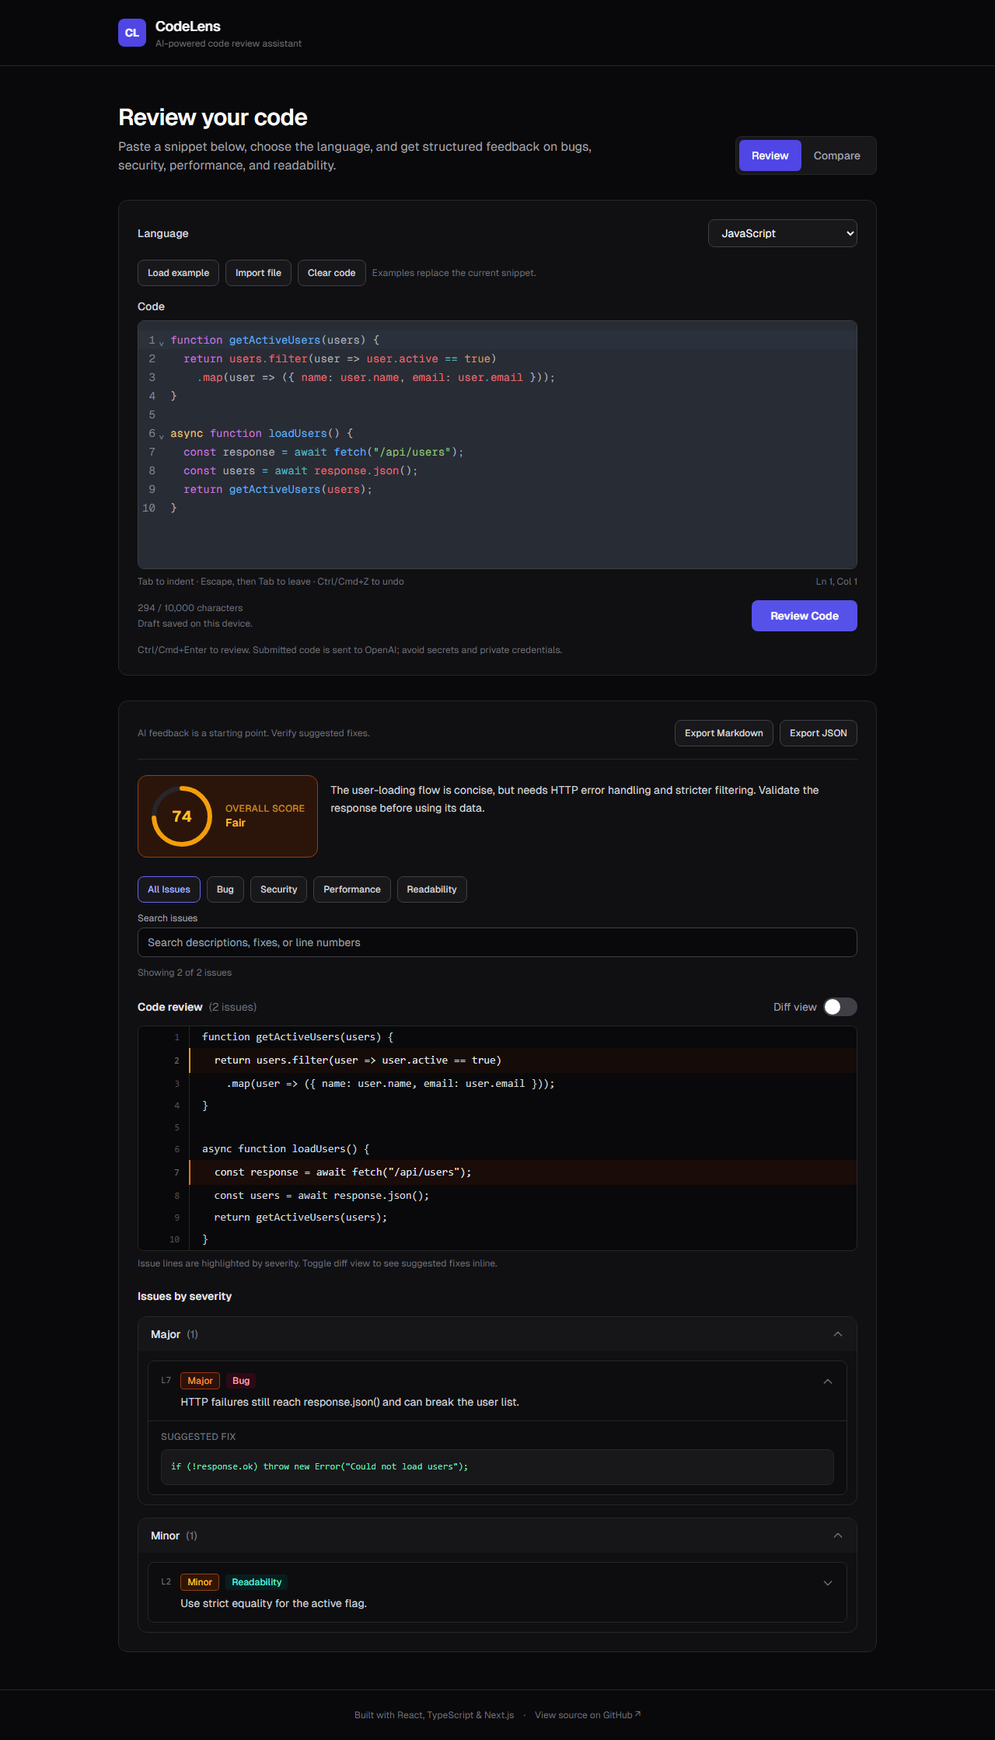
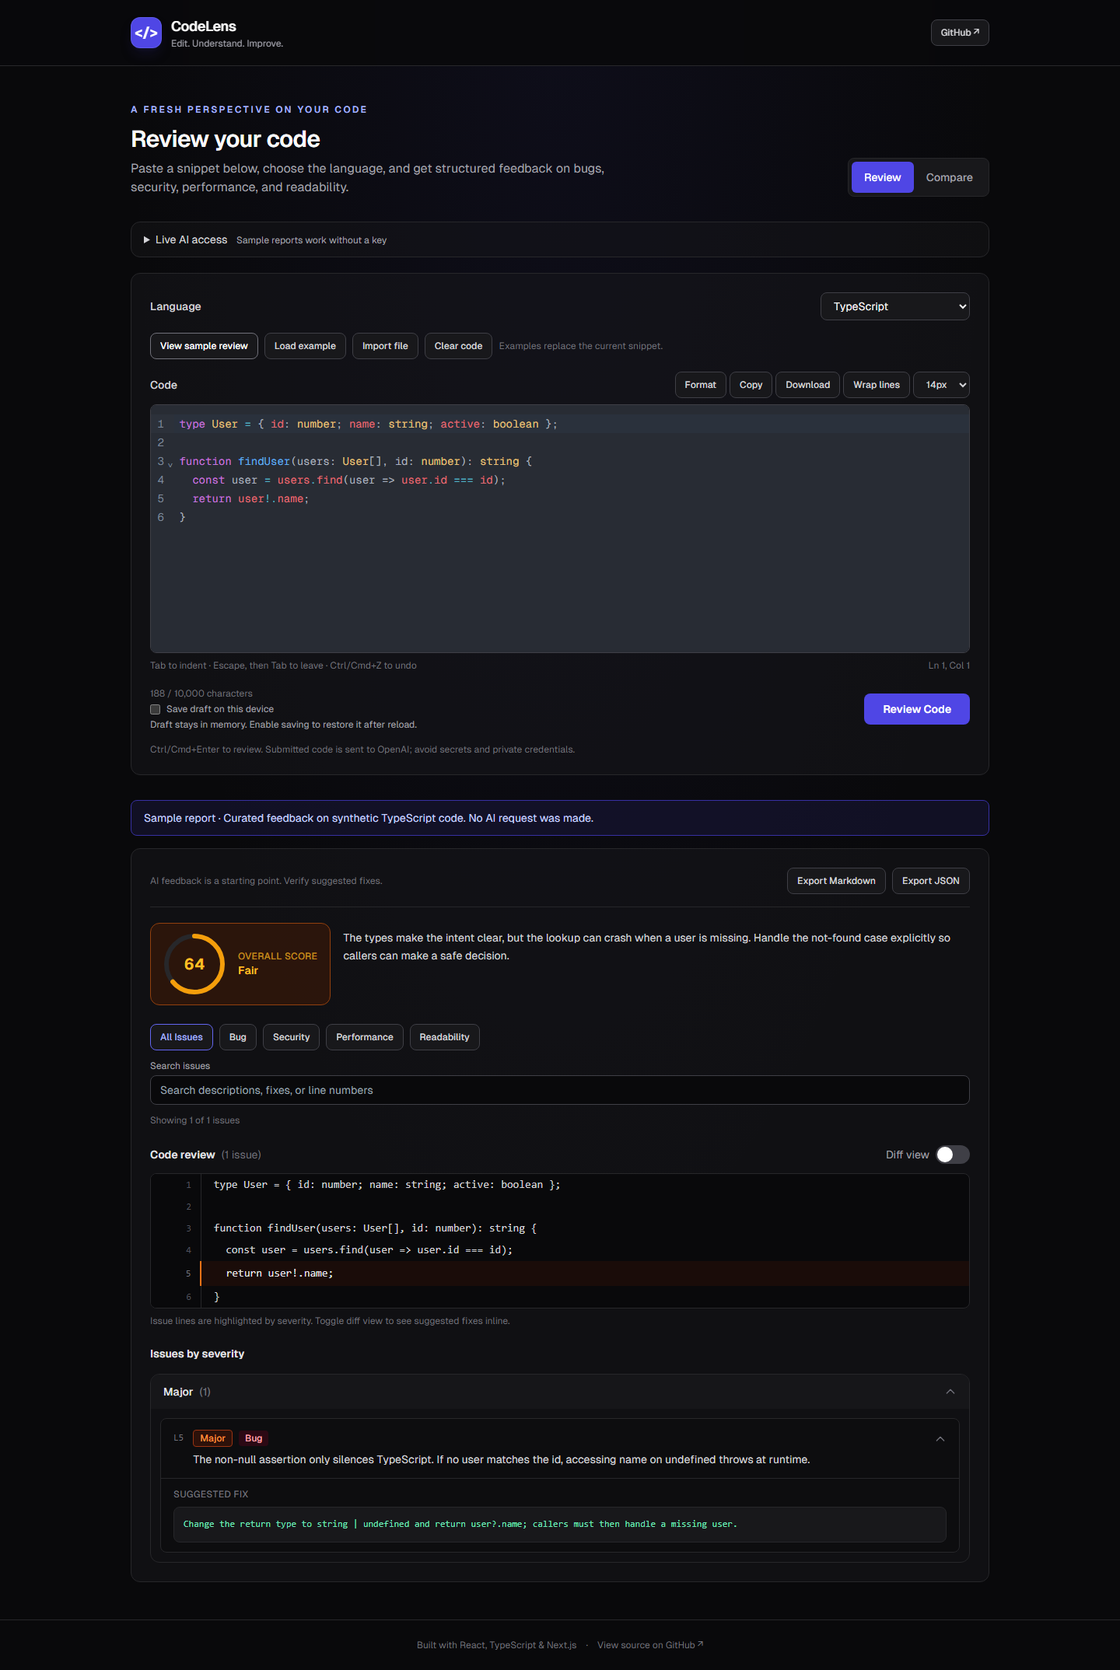
docs: describe CodeLens features setup and improvement roadmap

diff --git a/README.md b/README.md
@@ -1,43 +1,85 @@
 # CodeLens
 
 [![CI](https://github.com/pritishhhh/codelens/actions/workflows/ci.yml/badge.svg)](https://github.com/pritishhhh/codelens/actions/workflows/ci.yml)
+[![Deploy to Vercel](https://vercel.com/button)](https://vercel.com/new/clone?repository-url=https%3A%2F%2Fgithub.com%2Fpritishhhh%2Fcodelens)
 
-A React and TypeScript workspace for AI-assisted code review and solution comparison. Paste or import a snippet, inspect actionable feedback, and export the analysis with its original source.
+**A browser workspace for editing code, understanding tradeoffs, and getting structured review feedback.**
 
-![CodeLens editor and review results](docs/preview.png)
+CodeLens brings a real code editor, local source comparison, and AI-assisted review into one interface. It supports JavaScript, TypeScript, Python, Java, C++, and Go. Curated sample reports make the complete review and comparison experience available without an API key.
 
-*Interface preview with illustrative review feedback.*
+![CodeLens workspace](docs/preview.png)
 
-## Features
+[View the comparison workspace](docs/comparison.png)
 
-- **Code editor:** CodeMirror 6 with syntax highlighting, line numbers, bracket matching, folding, search, indentation, and undo/redo.
-- **Six languages:** JavaScript/JSX, TypeScript/TSX, Python, Java, C++, and Go.
-- **Structured reviews:** Quality score, severity groups, category filters, issue search, and suggested fixes alongside annotated source.
-- **Solution comparison:** Side-by-side editors, scores, strengths, weaknesses, a winner, and an explanation.
-- **Persistent drafts:** Separate review and comparison drafts survive reloads and mode changes in this browser.
-- **File import:** Read source files locally, infer the language, normalize line endings, and validate size before replacing code.
-- **Examples:** Review snippets and comparison pairs for every supported language, plus a swap action.
-- **Exports:** Download complete Markdown or JSON reports, including submitted source and unfiltered feedback.
-- **Request controls:** Cancel analysis, retry failures, and ignore stale responses after switching modes.
-- **Accessible navigation:** Named editors, keyboard mode tabs, visible focus states, responsive layouts, and reduced-motion support.
+## What it does
+
+- **Edit comfortably:** CodeMirror 6 provides syntax highlighting, line numbers, bracket matching, completion, folding, search and replace, indentation, and undo/redo. Line wrapping and adjustable font sizes accommodate different screens.
+- **Format locally:** JavaScript/JSX and TypeScript/TSX formatting uses lazily loaded Prettier parsers. Formatting is undoable; invalid syntax leaves the original source intact.
+- **Work with files:** Import source files with language detection and normalized line endings, copy code, or download the current source in its selected language.
+- **Review code:** Get a quality score, line-specific issues grouped by severity, category filters, search, and suggested fixes beside the submitted source.
+- **Compare solutions:** Edit two snippets, swap them, inspect a local line diff, and request an analysis of correctness, performance, readability, and maintainability.
+- **Try sample reports:** Explore curated TypeScript reviews and comparisons without contacting an AI provider. Samples are clearly identified in the interface and exported reports.
+- **Keep control of drafts:** Documents stay in memory by default. Optional local saving restores drafts after reload; switching it off removes the stored source for that draft.
+- **Export findings:** Download Markdown or JSON containing the original submitted source and complete feedback, independent of active filters.
+- **Manage requests:** Cancel work, retry a failed submission, and switch modes without stale responses changing the current view.
+- **Navigate accessibly:** Named editors, keyboard-operated mode tabs, focus indicators, a skip link, responsive layouts, and reduced-motion support.
+
+CodeLens reviews snippets; it does not compile or execute them. The annotated review displays suggestions, which may be explanations rather than directly applicable patches. The comparison source diff shows actual text changes between the two documents.
+
+## Technology
+
+Next.js 15 App Router · React · TypeScript · Tailwind CSS · CodeMirror 6 · Prettier · jsdiff · OpenAI Node SDK · Playwright · Node test runner
+
+The API key remains on the server. Formatting, text comparison, imports, downloads, draft storage, and sample reports run locally in the browser.
 
 ## Run locally
 
-Use **Node.js 22.13 or newer** and npm.
+Requirements: **Node.js 22.13+ (22.x LTS) or 24+**, and npm. The repository includes an `.nvmrc` for Node 22.
 
 ```bash
 git clone https://github.com/pritishhhh/codelens.git
 cd codelens
 npm ci
-cp .env.example .env.local
 npm run dev
 ```
 
-On Windows, use `Copy-Item .env.example .env.local` instead of `cp`.
+Open [localhost:3000](http://localhost:3000). The editor and sample reports work immediately without environment variables.
 
-Set `OPENAI_API_KEY` in `.env.local`. The key stays on the server; never prefix it with `NEXT_PUBLIC_` or commit it. `OPENAI_MODEL` optionally overrides the default `gpt-4o`; choose a model compatible with Chat Completions and JSON object output.
+Live AI analysis requires a server-side API key:
 
-Open [localhost:3000](http://localhost:3000). Editing, examples, draft saving, and file import work without an API key; real analysis requires a configured key and provider quota.
+```bash
+cp .env.example .env.local
+```
+
+On PowerShell, the equivalent is `Copy-Item .env.example .env.local`.
+
+| Variable | Purpose |
+| --- | --- |
+| `OPENAI_API_KEY` | Server-only provider key for live analysis. Never use a `NEXT_PUBLIC_` prefix. |
+| `OPENAI_MODEL` | Optional model override; defaults to `gpt-4o`. Must support Chat Completions and JSON object output. |
+| `CODELENS_ACCESS_TOKEN` | Private deployment access code. Required for live AI in production; optional during local development. |
+
+Restart the development server after changing environment variables. When an access token is configured, enter it in **Live AI access** in the workspace. The code is held in memory for the current visit and sent only with analysis requests.
+
+## Deploy on Vercel
+
+The repository includes `vercel.json`, uses the Next.js framework preset, and builds without an API key or external database.
+
+1. Import this GitHub repository into Vercel, or use the deploy button above.
+2. Select **Node.js 22.x** and keep the repository root as the project directory.
+3. For live analysis, configure `OPENAI_API_KEY` and a long, random `CODELENS_ACCESS_TOKEN` as server environment variables. `OPENAI_MODEL` is optional.
+4. Deploy. Subsequent pushes to the connected branch trigger Vercel builds.
+
+Without a production access token, live analysis returns 503 and the editor and sample reports remain usable. This prevents an accidental public deployment from exposing an unrestricted paid AI endpoint. The access code can be shared privately with intended reviewers; it is separate from the provider API key.
+
+Both API routes use the Node.js runtime with a 60-second maximum duration. Provider requests have a 45-second timeout with automatic retries disabled. Responses containing analysis are marked `no-store`. A static-only export cannot run the API routes.
+
+For another Node-compatible host:
+
+```bash
+npm run build
+npm start
+```
 
 ## Keyboard shortcuts
 
@@ -45,35 +87,31 @@ Open [localhost:3000](http://localhost:3000). Editing, examples, draft saving, a
 | --- | --- |
 | Review or compare | Ctrl/Cmd + Enter |
 | Undo / redo | Ctrl/Cmd + Z / Shift + Ctrl/Cmd + Z |
-| Find in editor | Ctrl/Cmd + F |
+| Find / replace | Ctrl/Cmd + F, then expand the replace controls |
 | Indent / outdent | Tab / Shift + Tab |
-| Leave editor | Escape, then Tab |
-| Change mode while a tab is focused | Left / Right arrow, Home / End |
+| Leave the editor | Escape, then Tab |
+| Change mode with a tab focused | Left / Right arrow, Home / End |
 
-Snippets are limited to **10,000 characters each**. Imported files are read in the browser and are sent to the server only when submitted. Examples replace the current snippet or pair.
+Snippets are limited to **10,000 characters each**. Example and sample buttons replace the current snippet or comparison pair.
 
-## Architecture
+## Architecture and engineering choices
 
 ```text
-src/app/page.tsx          Mode selection, request lifecycle, and submitted-result snapshots
-src/app/api/             Server-only review and comparison routes
-src/components/          Editors, forms, feedback, annotations, and report downloads
-src/hooks/               SSR-safe persistent draft hook
-src/lib/                 Prompts, runtime validation, examples, drafts, and report formatting
-src/types/               Shared TypeScript request and result contracts
-tests/unit/              Validators, reports, and API behavior with a mocked provider
+src/app/                 Workspace, layout, and server-only API routes
+src/components/          Editors, source diff, forms, feedback, and exports
+src/hooks/               Validated, opt-in draft persistence
+src/lib/                 Prompts, request guards, validators, formatting, diffing, and samples
+src/types/               Shared TypeScript request/result contracts
+tests/unit/              API boundaries, runtime contracts, reports, diffing, and formatting
 tests/e2e/               Desktop and mobile browser workflows
 ```
 
-**React state management:** Controlled editor documents and a reusable persistence hook keep each draft independent. Storage hydrates after mount to avoid server/client markup mismatches and never overwrites a saved draft with initial empty state.
-
-**Async correctness:** An `AbortController` and request identity guard prevent cancelled or superseded requests from changing the active view. Retry uses the last submitted snapshot. The provider has a 60-second timeout; the browser has a 120-second fallback.
-
-**Runtime contracts:** TypeScript describes the data, while runtime validators check actual AI responses. Invalid input returns 400; malformed AI output returns 502. Review issues must reference a line that exists in the unchanged source.
-
-**Editor correctness:** CodeMirror owns text, highlighting, selection, and cursor measurement in one document. The former transparent textarea overlay used inconsistent padding and font metrics. Font loading now triggers remeasurement instead of relying on a cursor offset.
-
-**Exports:** Markdown and JSON are generated locally. Code fences grow when the source contains backticks, preserving the snippet inside the exported report.
+- **Request lifecycle:** Abort controllers and request identity checks prevent cancelled or superseded work from updating the screen. Retry uses the submitted snapshot, preserving its source and line numbers.
+- **Runtime validation:** Request and model output are validated separately. Invalid input returns 400, oversized request bodies return 413, and malformed provider output returns 502. Review issues must reference a line in the submitted source.
+- **Deployment protection:** Production live analysis requires a shared access token. Comparisons use constant-time digest checks. Cross-origin browser analysis requests are rejected, actual body streams are bounded to 128 KiB, and provider error details are never returned.
+- **Editor integrity:** CodeMirror owns document text, highlighting, selection, and cursor measurement. Formatting is a history transaction and skips results if the document changed while parsers were loading.
+- **Local persistence:** Saved drafts are validated after hydration and writes are debounced. Existing saved drafts are migrated; new visitors explicitly opt in. Storage restrictions leave the editor usable.
+- **Honest samples:** Curated sample data never impersonates a live response. Sample provenance appears in Markdown and JSON exports.
 
 ## Quality checks
 
@@ -86,23 +124,23 @@ npx playwright install chromium
 npm run test:e2e
 ```
 
-GitHub Actions runs these checks on pushes and pull requests to `main`, including browser tests against the production build. Tests use mocked responses and do not require an API key or spend provider credits. Browser projects cover desktop Chromium and a mobile viewport.
+GitHub Actions runs lint, type checking, unit tests, a production build, and browser tests on pushes and pull requests to `main`. Browser coverage includes desktop Chromium and a mobile viewport. Tests use synthetic data and mocked AI responses; they do not require a provider key or spend credits.
 
-## Deployment
+## Privacy and limitations
 
-Use a Node-compatible Next.js host. Set `OPENAI_API_KEY` and optionally `OPENAI_MODEL` in its server environment, then run `npm run build` and `npm start`. These API routes cannot run in a static-only export.
+Source is sent to OpenAI only when live analysis is submitted. Imports, formatting, samples, and local diffs do not transmit source. Optional saved drafts are plaintext in this browser's storage. Turning saving off removes that draft's stored source, while preserving the current editor contents until the page is closed or reloaded.
 
-## Limitations and tradeoffs
+AI feedback may be incorrect or incomplete; it needs human review. Cancelling a request cannot guarantee cancellation of provider work or charges already incurred. Both comparison snippets use one selected language. Mobile tests use a Chromium viewport rather than a physical device or Safari.
 
-- AI reviews can miss problems or suggest incorrect fixes. CodeLens does not compile or execute submitted snippets.
-- Drafts are plaintext in this browser's local storage; there is no account, cloud synchronization, or saved report history. Clear a draft before leaving a shared device.
-- Both comparison solutions use the selected language.
-- The API currently has no application authentication or distributed rate limiter. Add access controls and provider spending limits before exposing a paid key through an unrestricted public deployment.
-- Cancelling a request stops local waiting and attempts to abort the provider request. It cannot guarantee cancellation of provider work or charges already incurred.
-- Next.js and its PostCSS dependency were patched. Development tooling still has upstream audit findings; see [review notes](docs/REVIEW_NOTES.md).
+A shared access code is suitable for a restricted portfolio demo, not a substitute for individual accounts, distributed rate limits, or per-user quotas. Provider spending controls and deployment access policies remain relevant for a public service.
 
-## Engineering walkthrough
+## Further improvements
 
-This project demonstrates component composition, custom hooks, controlled state, TypeScript unions and type guards, API integration, request cancellation, local persistence, responsive styling, runtime validation, browser testing, and continuous integration.
-
-For an interview demo: load the JavaScript example, review it, filter the issues, export a report, compare the paired examples, then reload to demonstrate saved drafts.
+- **Multi-file workspaces:** A file tree, tabs, cross-file search, and project imports with explicit size and privacy limits.
+- **Language intelligence:** Language Server Protocol integration for diagnostics, completion, symbol navigation, and refactoring; formatters for Python, Java, C++, and Go.
+- **Review context:** Structured problem descriptions, selected review rules, and schema-constrained model responses with evidence linked to source.
+- **Accounts and quotas:** Individual authentication, distributed rate limiting, per-user usage budgets, and an audit trail that avoids storing source by default.
+- **Review history:** Opt-in encrypted cloud storage, saved comparisons, and report history with deletion controls.
+- **Testing depth:** Firefox and WebKit coverage, automated accessibility audits, larger-diff performance checks, and a small provider evaluation set.
+- **Collaboration:** GitHub pull-request imports, anchored discussion threads, and explicit approval before writing comments.
+- **Execution sandbox:** Isolated, resource-limited runners with no host or network access, if code execution becomes part of the product.

diff --git a/docs/REVIEW_NOTES.md b/docs/REVIEW_NOTES.md
@@ -1,36 +1,41 @@
-# Project review and improvements
+# Engineering notes
 
-The review covered the application page and layout, both API routes, all input and result components, error and loading states, prompts, JSON parsing, runtime validators, shared types, styles, dependencies, and setup documentation.
+## Editor and review integrity
 
-## Fixed
+CodeMirror owns text, highlighting, selection, and cursor measurement in a single document. Font loading triggers remeasurement. Formatting uses a history transaction, preserves source on parse failure, and discards stale formatting results if the document changes while parsers load.
 
-| Finding | Change |
-| --- | --- |
-| Caret and highlighted text used separate layers with inconsistent padding and font metrics | Replaced the overlay with CodeMirror; remeasure after local fonts load |
-| Changing modes unmounted forms and discarded drafts | Keep forms mounted and persist independently validated drafts locally |
-| A late response could update the screen after a mode change | Abort requests and guard every update by active request identity |
-| No cancellation or timeout controls | Add a cancel action, bounded provider/browser timeouts, and real retry |
-| Trimming source shifted review line numbers | Preserve source whitespace end to end; use trimming only to check emptiness |
-| Invalid model output was classified as invalid user input | Return 502 for malformed provider results and 400 for invalid requests |
-| Review issues could reference nonexistent source lines | Validate line references against submitted source |
-| Fractional scores outside 0–100 could pass after rounding | Check the range before rounding |
-| Provider error details were returned directly | Use actionable messages without raw provider details |
-| Outdated Next.js and nested PostCSS dependencies | Upgrade Next.js and override its PostCSS with the patched direct dependency |
-| Shared severity and score classes were outside Tailwind's scanned folders | Scan all source files so severity highlights and score colors are generated |
-| No automated regression checks or project-specific README | Add unit/browser tests, GitHub Actions, setup instructions, and architecture notes |
+Submitted source is preserved, including leading whitespace. The review API validates issue line numbers against that exact source. Results and exports use the submitted snapshot, while category filters affect presentation only. Review suggestions may contain explanations; they are not automatically applied as patches.
 
-## Added
+The local comparison diff shows actual changes between Solution A and Solution B. Its computation has a short time budget and falls back to showing complete removal/addition for pathological input.
 
-Code editor navigation and shortcuts; language-specific examples; source-file import; comparison swapping; category filters and issue search; complete Markdown/JSON exports; local draft persistence; keyboard-accessible mode tabs; a source link.
+## Request and deployment boundaries
 
-## Validation boundaries
+Both API routes share access checks, bounded JSON reading, provider configuration, and error translation:
 
-Unit tests mock the provider's transport and verify server behavior without making paid requests. Browser tests use mocked API responses to verify the interface and downloads. Desktop and mobile viewport tests check cursor geometry against actual rendered character bounds, typing, indentation, undo, horizontal scrolling, draft restore, imports, filtering, retries, and cancellation.
+- Production analysis is disabled unless a private deployment access token is configured.
+- Tokens are compared using constant-time SHA-256 digest comparison.
+- Browser requests from a different origin are rejected.
+- Actual streamed bodies are limited to 128 KiB, even without an accurate Content-Length.
+- The provider has a 45-second timeout and zero automatic retries, within a 60-second Vercel function budget.
+- API responses are marked no-store; provider details, source, and credentials are not logged by the application.
+- Cancelled and superseded requests cannot update the current workspace.
 
-A real provider response must still be smoke-tested in the deployed environment with its configured API key, quota, and model. Mobile tests use Chromium with a mobile viewport, not a physical device or Safari.
+A shared token restricts a portfolio demo. Individual authentication, distributed rate limits, and per-user budgets remain future work. Cancellation cannot guarantee that provider computation or charges have stopped.
 
-## Remaining dependency findings
+## Privacy and samples
 
-The production framework and PostCSS issues were addressed. Some transitive development tools still report vulnerabilities in glob-pattern and selector parsing. Their inputs here are repository-controlled files and build configuration. They remain tracked rather than forcing unverified major upgrades to Tailwind or its internals. Run `npm audit` periodically and recheck after upstream releases.
+New visitors opt in to local draft storage. Disabling saving removes the corresponding stored source while preserving the in-memory document. Existing saved drafts are migrated to avoid losing work. Writes are debounced and stored data is validated after hydration.
 
-Authentication, a distributed rate limiter, cloud history, and code execution are outside this update. The application currently submits snippets to a server-side AI provider; it does not run user code.
+Curated sample reports use synthetic TypeScript snippets, make no provider request, and identify their provenance in the interface and exports. Live analysis still requires configured provider credentials, model access, and quota.
+
+## Verification
+
+Unit checks cover request validation, production access guards, stream-size limits, malformed provider results, source preservation, diff line numbers, formatting, samples, and report generation.
+
+Browser checks cover cursor geometry, keyboard navigation, indentation, undo, horizontal scrolling, responsive layout, import limits, filtering, exports, request retry/cancellation, formatting undo, source download, sample provenance, opt-in storage/deletion, and access-code handling. Tests use synthetic data and mocked provider responses.
+
+The production build is exercised in CI. Browser projects cover desktop Chromium and an emulated mobile viewport; physical devices, Firefox, and WebKit are not covered yet. A live provider response has not been verified as part of these mocked checks.
+
+## Dependency maintenance
+
+Next.js is pinned to the patched 15.5.28 release. PostCSS and its selector parser are overridden to patched versions; the production build and browser styling checks cover the resulting Tailwind output. The dependency audit reported zero findings when this update was verified. Future registry advisories may change that result.
